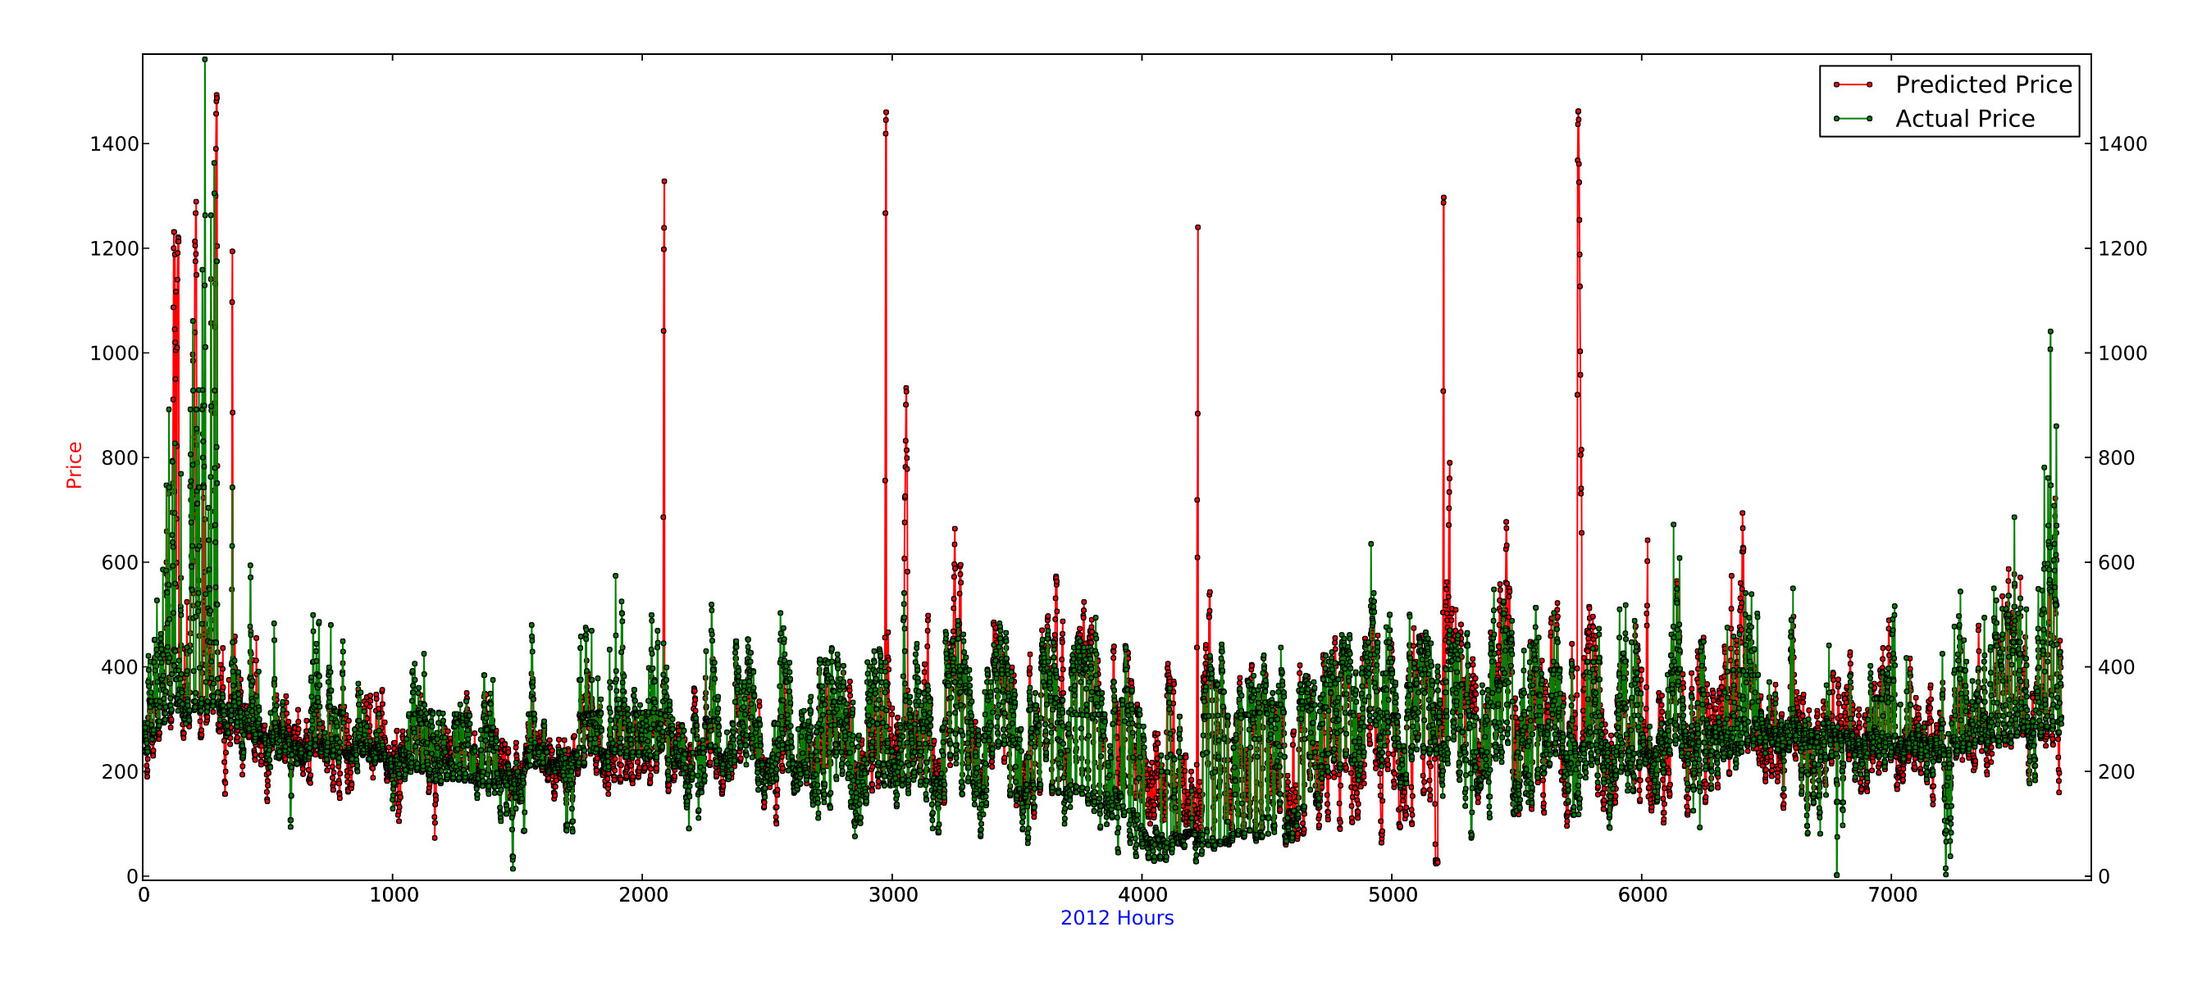
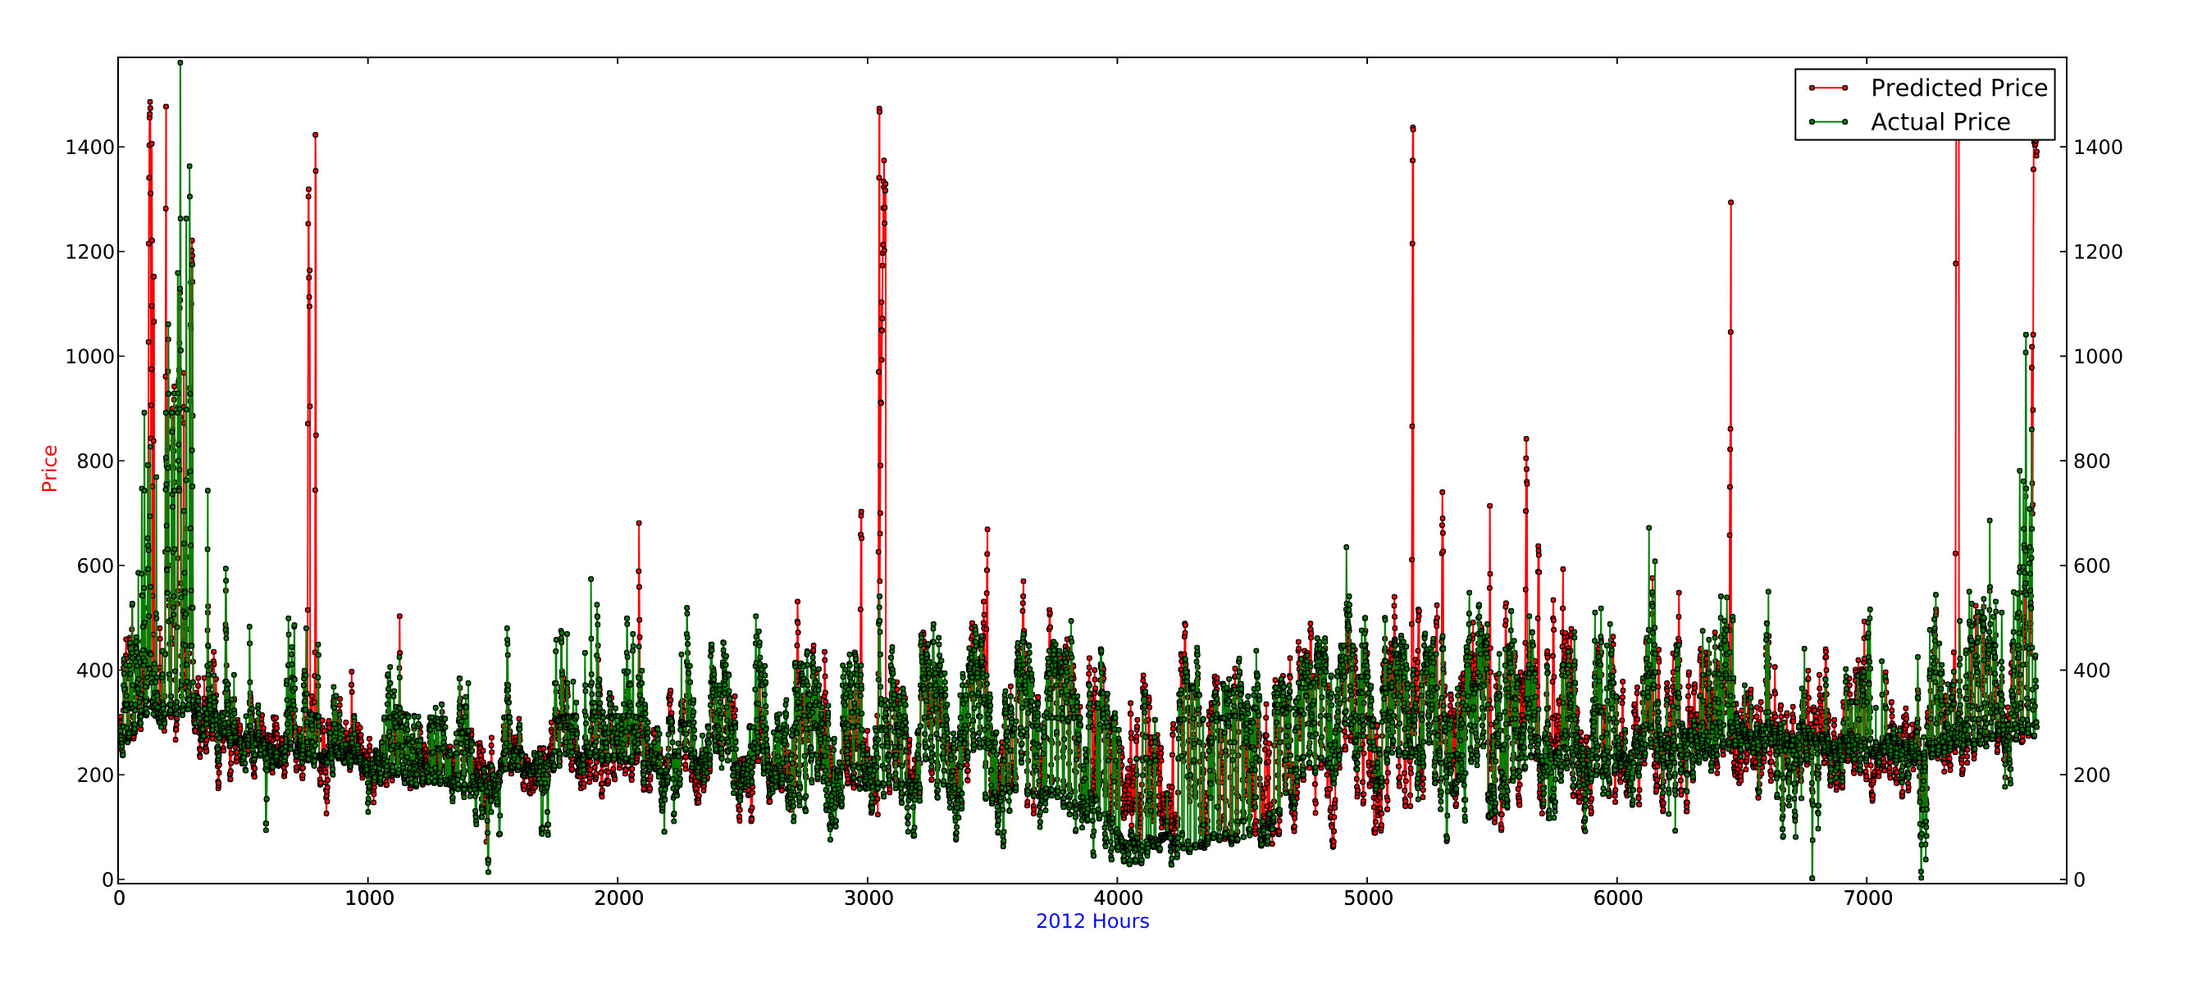
Experiments

diff --git a/sections/DataCollection/pricePredictionExperiments.tex b/sections/DataCollection/pricePredictionExperiments.tex
@@ -1,4 +1,7 @@
 \subsection{Experimental results}
+This section contains experimental results to find the best possible price predicting solution. The results are divided into 5 experiments. The first experiment finds the best combination of input parameters for the network. These input paramters count meteorological, social and seasonal factors we indentified in section~\ref{sec:Price}. The next experiment indentifies the need for trimming and reasons why it is needed in this particular dataset. The third experiment tests different statistical strategies to incorporate historical prices as a part of the dataset. This includes historical prices, curve behaviour analysis, skewness analysis and historical EWMA(Exponentially-Weighted Moving Average). The fourth experiment takes care of the Artificial Neural Network parameters. This includes black-box optimization like pruning of the network and optimization of epochs.
+
+\subsubsection{Experiment 1: Inputs}
 
 \begin{table}[H]
 \centering  % used for centering table
@@ -7,98 +10,150 @@
 	Price & Consumption & Wind speed & Temperature & Time of day & Weekdays & Months & Seasons & Matrix & MAE & Rank\\ [0.5ex] % inserts table 
 	%heading
 	\hline                  % inserts single horizontal line
-
- x & x & x & x & x & & & x & x &57.12 & \#1 \\
- x & x & x & & x & & x & & x &60.14 & \#2 \\
- x & x & x & x & x & & & & x &65.95 & \#3 \\
- x & x & x & x & x & & x & & x &66.55 & \#4 \\
- x & x & x & x & x & & & & &67.88 & \#5 \\
- x & x & x & & x & & & x & &68.21 & \#6 \\
- x & x & x & & x & & & & x &68.34 & \#7 \\
- x & x & x & & x & & & x & x &68.35 & \#8 \\
- x & x & x & x & x & & x & & &68.43 & \#9 \\
- x & x & x & & x & & & & &69.09 & \#10 \\
- x & x & x & x & & & & & &69.14 & \#11 \\
- x & x & x & & x & & x & & &69.34 & \#12 \\
- x & x & x & x & x & & & x & x &69.46 & \#13 \\
- x & x & x & x & & & & & x &69.5 & \#14 \\
- x & x & x & x & x & & & & &69.62 & \#15 \\
- x & x & x & x & & & x & & &69.7 & \#16 \\
- x & x & x & & x & & & x & &69.75 & \#17 \\
- x & x & x & x & x & & x & & &69.82 & \#18 \\
- x & x & x & & & & & & x &69.9 & \#19 \\
- x & x & x & & x & & x & & &70.58 & \#20 \\
- x & x & x & x & x & & & x & &70.75 & \#21 \\
- x & x & x & x & & & & & &71.31 & \#22 \\
- x & x & & x & x & & & & x &71.39 & \#23 \\
- x & x & x & x & & & & & x &71.58 & \#24 \\
- x & x & x & & x & & x & & x &71.81 & \#25 \\
- x & x & x & & x & & & x & x &71.89 & \#26 \\
- x & x & x & x & x & & & & x &73.7 & \#27 \\
- x & x & x & x & & & x & & x &74.19 & \#28 \\
- x & x & x & x & & & & x & x &75.31 & \#29 \\
- x & x & x & & & & & x & x &75.52 & \#30 \\
- x & x & x & & & & & & &75.63 & \#31 \\
- x & x & x & & x & & & & x &75.77 & \#32 \\
- x & x & x & x & & & x & & x &76.18 & \#33 \\
- x & x & x & & & & & & &76.32 & \#34 \\
- x & x & x & x & x & & x & & x &77.7 & \#35 \\
- x & x & & x & x & & & x & x &78.57 & \#36 \\
- x & x & x & x & x & & & x & &78.69 & \#37 \\
- x & x & & x & x & & & & &79.01 & \#38 \\
- x & x & & & x & & x & & x &79.71 & \#39 \\
- x & x & x & x & & & x & & &79.89 & \#40 \\
- x & x & x & & & & & x & x &80.2 & \#41 \\
- x & x & & & & & & & x &81.28 & \#42 \\
- x & x & x & x & & & & x & &81.34 & \#43 \\
- x & x & & & x & & & x & x &81.58 & \#44 \\
- x & x & x & x & & & & x & x &82.03 & \#45 \\
- x & x & & x & x & & & & &82.29 & \#46 \\
- x & x & x & & & & & & x &82.32 & \#47 \\
- x & x & & x & & & & & x &82.72 & \#48 \\
- x & x & & & x & & & & &83.35 & \#49 \\
- x & x & & x & x & & x & & x &84.5 & \#50 \\
- x & x & & & x & & & & x &85.15 & \#51 \\
- x & x & & x & x & & & x & x &85.51 & \#52 \\
- x & x & x & & & & x & & &85.55 & \#53 \\
- x & x & x & & & & & x & &85.57 & \#54 \\
- x & x & x & & & & & x & &85.66 & \#55 \\
- x & x & x & & & & x & & &85.99 & \#56 \\
- x & x & & x & & & & & &86.33 & \#57 \\
- x & x & & & x & & & x & x &87.0 & \#58 \\
- x & x & & x & & & & & &87.94 & \#59 \\
- x & x & & & & & & & &89.03 & \#60 \\
- x & x & & & x & & x & & &90.73 & \#61 \\
- x & x & & x & x & & & & x &91.06 & \#62 \\
- x & x & & & x & & & & x &91.23 & \#63 \\
- x & x & & & & & & x & x &91.67 & \#64 \\
- x & x & & x & x & & & x & &92.95 & \#65 \\
- x & x & x & & & & x & & x &93.63 & \#66 \\
- x & x & & & & & & x & &96.7 & \#67 \\
- x & x & & & & & & & x &96.78 & \#68 \\
- x & x & & & x & & & x & &97.09 & \#69 \\
- x & x & & x & x & & x & & &98.17 & \#70 \\
- x & x & & & x & & & x & &99.1 & \#71 \\
- x & x & & & & & x & & &99.38 & \#72 \\
- x & x & & & x & & x & & &99.78 & \#73 \\
- x & x & & x & & & & x & x &102.76 & \#74 \\
- x & x & & x & x & & x & & x &103.01 & \#75 \\
- x & x & & & & & x & & &103.56 & \#76 \\
- x & x & & & & & & x & &103.71 & \#77 \\
- x & x & & x & & & & x & &104.19 & \#78 \\
- x & x & & x & & & & & x &104.33 & \#79 \\
- x & x & & & x & & x & & x &104.93 & \#80 \\
- x & x & & x & x & & & x & &105.04 & \#81 \\
- x & x & x & & & & x & & x &105.7 & \#82 \\
- x & x & & & & & & x & x &107.85 & \#83 \\
- x & x & & x & x & & x & & &108.37 & \#84 \\
- x & x & & x & & & x & & &111.14 & \#85 \\
- x & x & & x & & & x & & x &111.65 & \#86 \\
- x & x & & x & & & x & & x &113.56 & \#87 \\
- x & x & & & & & x & & x &115.81 & \#88 \\
- x & x & & x & & & & x & x &115.83 & \#89 \\
- x & x & & x & & & x & & &117.17 & \#90 \\
- x & x & & & & & x & & x &117.34 & \#91 \\
+ x    & x    & x    & x    & x(M) & x(M) &      & x(M) & 57.12 & \#1 \\
+ x    & x    & x    & x    & x    & x    &      & x    & 58.09 & \#2 \\
+ x    & x    & x    & x    & x    &      & x    &      & 58.79 & \#3 \\
+ x    & x    & x    &      & x(M) & x(M) & x(M) &      & 60.14 & \#4 \\
+ x    & x    & x    & x    & x    & x    &      &      & 62.19 & \#5 \\
+ x    & x    & x    & x    & x    &      &      & x    & 62.26 & \#6 \\
+ x    & x    & x    & x    & x    & x    & x    &      & 62.84 & \#7 \\
+ x    & x    & x    & x    & x    & x    &      & x    & 63.94 & \#8 \\
+ x    & x    & x    & x    & x    & x    & x    &      & 64.19 & \#9 \\
+ x    & x    & x    &      & x    & x    & x    &      & 64.72 & \#10 \\
+ x    & x    & x    &      & x    & x    & x    &      & 65.07 & \#11 \\
+ x    & x    & x    & x    & x(M) & x(M) &      &      & 65.95 & \#12 \\
+ x    & x    & x    & x    & x(M) & x(M) & x(M) &      & 66.55 & \#13 \\
+ x    & x    & x    &      & x    &      &      & x    & 67.21 & \#14 \\
+ x    & x    & x    & x    & x    & x    &      &      & 67.88 & \#15 \\
+ x    & x    & x    &      & x    & x    &      & x    & 68.21 & \#16 \\
+ x    & x    & x    &      & x(M) & x(M) &      &      & 68.34 & \#17 \\
+ x    & x    & x    &      & x(M) &      &      & x(M) & 68.35 & \#18 \\
+ x    & x    & x    & x    & x    & x    & x    &      & 68.43 & \#19 \\
+ x    & x    & x    & x    & x    &      &      & x    & 68.45 & \#20 \\
+ x    & x    & x    &      & x    &      &      &      & 69.09 & \#21 \\
+ x    & x    & x    & x    &      & x    &      &      & 69.14 & \#22 \\
+ x    & x    & x    &      & x    &      & x    &      & 69.34 & \#23 \\
+ x    & x    & x    & x    & x    & x    & x    &      & 69.37 & \#24 \\
+ x    & x    & x    & x    & x(M) &      &      & x(M) & 69.46 & \#25 \\
+ x    & x    & x    & x    & x    & x    & x    &      & 69.47 & \#26 \\
+ x    & x    & x    & x    &      & x(M) &      &      & 69.50 & \#27 \\
+ x    & x    & x    & x    & x    &      &      &      & 69.62 & \#28 \\
+ x    & x    & x    & x    &      & x    & x    &      & 69.70 & \#29 \\
+ x    & x    & x    & x    & x    &      &      & x    & 69.71 & \#30 \\
+ x    & x    & x    &      & x    &      &      & x    & 69.75 & \#31 \\
+ x    & x    & x    & x    & x    &      & x    &      & 69.82 & \#32 \\
+ x    & x    & x    &      &      &      &      &      & 69.90 & \#33 \\
+ x    & x    & x    & x    &      & x    & x    &      & 70.29 & \#34 \\
+ x    & x    & x    &      & x    & x    & x    &      & 70.58 & \#35 \\
+ x    & x    & x    & x    & x    & x    &      & x    & 70.75 & \#36 \\
+ x    & x    & x    &      & x    & x    &      & x    & 70.96 & \#37 \\
+ x    & x    & x    & x    &      &      &      &      & 71.31 & \#38 \\
+ x    & x    &      & x    & x(M) & x(M) &      &      & 71.39 & \#39 \\
+ x    & x    & x    &      & x    & x    &      &      & 71.49 & \#40 \\
+ x    & x    & x    & x    &      &      &      &      & 71.58 & \#41 \\
+ x    & x    & x    & x    &      & x    &      & x    & 71.74 & \#42 \\
+ x    & x    & x    &      & x(M) &      & x(M) &      & 71.81 & \#43 \\
+ x    & x    & x    &      & x(M) & x(M) &      & x(M) & 71.89 & \#44 \\
+ x    & x    & x    & x    & x    & x    &      & x    & 71.92 & \#45 \\
+ x    & x    & x    &      & x    &      &      & x    & 72.70 & \#46 \\
+ x    & x    & x    &      & x    & x    &      & x    & 72.74 & \#47 \\
+ x    & x    & x    & x    & x(M) &      &      &      & 73.70 & \#48 \\
+ x    & x    & x    & x    &      & x    & x    &      & 73.80 & \#49 \\
+ x    & x    & x    & x    &      & x(M) & x(M) &      & 74.19 & \#50 \\
+ x    & x    & x    & x    & x    &      & x    &      & 74.29 & \#51 \\
+ x    & x    & x    &      & x    & x    &      &      & 74.56 & \#52 \\
+ x    & x    & x    &      & x    & x    & x    &      & 74.89 & \#53 \\
+ x    & x    & x    &      & x    & x    &      & x    & 75.25 & \#54 \\
+ x    & x    & x    & x    &      & x(M) &      & x(M) & 75.31 & \#55 \\
+ x    & x    & x    & x    & x    & x    & x    &      & 75.40 & \#56 \\
+ x    & x    & x    & x    & x    & x    &      &      & 75.45 & \#57 \\
+ x    & x    & x    &      &      &      &      & x(M) & 75.52 & \#58 \\
+ x    & x    & x    &      &      & x    &      &      & 75.63 & \#59 \\
+ x    & x    & x    &      & x(M) &      &      &      & 75.77 & \#60 \\
+ x    & x    & x    & x    &      & x    &      & x    & 76.12 & \#61 \\
+ x    & x    & x    & x    &      &      & x(M) &      & 76.18 & \#62 \\
+ x    & x    & x    & x    & x    & x    &      & x    & 76.19 & \#63 \\
+ x    & x    & x    &      &      &      &      &      & 76.32 & \#64 \\
+ x    & x    & x    &      & x    &      & x    &      & 76.39 & \#65 \\
+ x    & x    & x    & x    & x(M) &      & x(M) &      & 77.70 & \#66 \\
+ x    & x    & x    &      & x    & x    & x    &      & 77.72 & \#67 \\
+ x    & x    & x    & x    & x    &      & x    &      & 78.05 & \#68 \\
+ x    & x    & x    & x    &      & x    &      & x    & 78.49 & \#69 \\
+ x    & x    &      & x    & x(M) & x(M) &      & x(M) & 78.57 & \#70 \\
+ x    & x    & x    & x    & x    &      &      & x    & 78.69 & \#71 \\
+ x    & x    & x    &      & x    & x    &      & x    & 78.74 & \#72 \\
+ x    & x    & x    &      & x    & x    &      &      & 78.88 & \#73 \\
+ x    & x    &      & x    & x    & x    &      &      & 79.01 & \#74 \\
+ x    & x    &      &      & x(M) & x(M) & x(M) &      & 79.71 & \#75 \\
+ x    & x    & x    & x    &      &      & x    &      & 79.89 & \#76 \\
+ x    & x    & x    &      &      & x(M) &      & x(M) & 80.20 & \#77 \\
+ x    & x    & x    & x    & x    & x    &      & x    & 81.11 & \#78 \\
+ x    & x    &      &      &      &      &      &      & 81.28 & \#79 \\
+ x    & x    & x    & x    &      & x    &      & x    & 81.34 & \#80 \\
+ x    & x    &      &      & x(M) & x(M) &      & x(M) & 81.58 & \#81 \\
+ x    & x    & x    & x    &      &      &      & x(M) & 82.03 & \#82 \\
+ x    & x    & x    &      & x    & x    & x    &      & 82.04 & \#83 \\
+ x    & x    &      & x    & x    &      &      &      & 82.29 & \#84 \\
+ x    & x    & x    &      &      & x(M) &      &      & 82.32 & \#85 \\
+ x    & x    &      & x    &      &      &      &      & 82.72 & \#86 \\
+ x    & x    &      &      & x    &      &      &      & 83.35 & \#87 \\
+ x    & x    & x    &      & x    &      & x    &      & 83.82 & \#88 \\
+ x    & x    & x    &      & x    & x    &      & x    & 84.08 & \#89 \\
+ x    & x    &      & x    & x(M) & x(M) & x(M) &      & 84.50 & \#90 \\
+ x    & x    &      &      & x(M) & x(M) &      &      & 85.15 & \#91 \\
+ x    & x    &      & x    & x(M) &      &      & x(M) & 85.51 & \#92 \\
+ x    & x    & x    &      &      &      & x    &      & 85.55 & \#93 \\
+ x    & x    & x    &      &      & x    &      & x    & 85.57 & \#94 \\
+ x    & x    & x    &      &      &      &      & x    & 85.66 & \#95 \\
+ x    & x    & x    &      & x    &      & x    &      & 85.77 & \#96 \\
+ x    & x    & x    &      &      & x    & x    &      & 85.99 & \#97 \\
+ x    & x    &      &      & x    & x    &      &      & 86.00 & \#98 \\
+ x    & x    & x    &      & x    &      &      & x    & 86.13 & \#99 \\
+ x    & x    &      & x    &      & x    &      &      & 86.33 & \#100 \\
+ x    & x    &      &      & x(M) &      &      & x(M) & 87.00 & \#101 \\
+ x    & x    & x    &      &      & x    &      & x    & 87.63 & \#102 \\
+ x    & x    & x    & x    &      & x    & x    &      & 87.87 & \#103 \\
+ x    & x    &      &      &      & x    &      &      & 87.89 & \#104 \\
+ x    & x    &      & x    &      &      &      &      & 87.94 & \#105 \\
+ x    & x    &      &      &      &      &      &      & 89.03 & \#106 \\
+ x    & x    & x    &      &      & x    & x    &      & 89.14 & \#107 \\
+ x    & x    & x    & x    &      &      &      & x    & 89.55 & \#108 \\
+ x    & x    &      &      & x    & x    & x    &      & 90.73 & \#109 \\
+ x    & x    &      & x    & x(M) &      &      &      & 91.06 & \#110 \\
+ x    & x    &      &      & x(M) &      &      &      & 91.23 & \#111 \\
+ x    & x    &      &      &      &      &      & x(M) & 91.67 & \#112 \\
+ x    & x    & x    &      &      & x    &      & x    & 91.91 & \#113 \\
+ x    & x    & x    &      &      & x    & x    &      & 92.65 & \#114 \\
+ x    & x    &      & x    & x    & x    &      & x    & 92.95 & \#115 \\
+ x    & x    & x    &      &      &      & x(M) &      & 93.63 & \#116 \\
+ x    & x    & x    &      &      & x    & x    &      & 94.58 & \#117 \\
+ x    & x    &      &      &      &      &      & x    & 96.70 & \#118 \\
+ x    & x    &      &      &      & x(M) &      &      & 96.78 & \#119 \\
+ x    & x    &      &      & x    &      &      & x    & 97.09 & \#120 \\
+ x    & x    &      & x    & x    & x    & x    &      & 98.17 & \#121 \\
+ x    & x    &      &      & x    & x    &      & x    & 99.10 & \#122 \\
+ x    & x    &      &      &      &      & x    &      & 99.38 & \#123 \\
+ x    & x    &      &      & x    &      & x    &      & 99.78 & \#124 \\
+ x    & x    & x    &      &      & x    &      & x    & 100.63 & \#125 \\
+ x    & x    &      & x    &      &      &      & x(M) & 102.76 & \#126 \\
+ x    & x    &      & x    & x(M) &      & x(M) &      & 103.01 & \#127 \\
+ x    & x    &      &      &      & x    & x    &      & 103.56 & \#128 \\
+ x    & x    &      &      &      & x    &      & x    & 103.71 & \#129 \\
+ x    & x    &      & x    &      & x    &      & x    & 104.19 & \#130 \\
+ x    & x    &      & x    &      & x(M) &      &      & 104.33 & \#131 \\
+ x    & x    &      &      & x(M) &      & x(M) &      & 104.93 & \#132 \\
+ x    & x    &      & x    & x    &      &      & x    & 105.04 & \#133 \\
+ x    & x    & x    &      &      & x(M) & x(M) &      & 105.70 & \#134 \\
+ x    & x    &      &      &      & x(M) &      & x(M) & 107.85 & \#135 \\
+ x    & x    &      & x    & x    &      & x    &      & 108.37 & \#136 \\
+ x    & x    &      & x    &      &      & x    &      & 111.14 & \#137 \\
+ x    & x    &      & x    &      &      & x(M) &      & 111.65 & \#138 \\
+ x    & x    &      & x    &      & x(M) & x(M) &      & 113.56 & \#139 \\
+ x    & x    &      & x    &      &      &      & x    & 115.29 & \#140 \\
+ x    & x    &      &      &      &      & x(M) &      & 115.81 & \#141 \\
+ x    & x    &      & x    &      & x(M) &      & x(M) & 115.83 & \#142 \\
+ x    & x    &      & x    &      & x    & x    &      & 117.17 & \#143 \\
+ x    & x    &      &      &      & x(M) & x(M) &      & 117.34 & \#144 \\
 	\hline %inserts single line
 	\end{tabular}
 }
@@ -106,6 +161,67 @@
 \label{table:similarHoursLimits} % is used to refer this table in the text
 \end{table}
 
+\begin{table}[H]
+\centering  % used for centering table
+\resizebox{\textwidth}{!}{
+	\begin{tabular}{c c c c c c c c c c c} % centered columns (7 columns)
+	Price & Consumption & Wind speed & Temperature & Time of day & Weekdays & Months & Seasons & MAE & Rank\\ [0.5ex] % inserts table 
+	\hline                  % inserts single horizontal line
+	x & x & x & x & x    & x(M) & x(M) &      & 61.95 & \#1 \\ %newPredictions/TEN__MIXEDPrice_Consump_windSpeed_temperatureRow_timeOfDay_weekdaysMATRIX_monthOfYearMATRIX
+	x & x & x & x & x(M) & x    &      & x(M) & 62.76 & \#2 \\ %newPredictions/TEN__MIXEDPrice_Consump_windSpeed_temperatureRow_timeOfDayMATRIX_weekdays",%
+	x & x & x & x & x(M) & x(M) &      & x(M) & 62.87 & \#3 \\ %newPredictions/TEN__MIXEDPrice_Consump_windSpeed_temperatureRow_timeOfDayMATRIX_weekdays_monthOfYearMATRIX",
+	x & x & x &   & x(M) & x    & x(M) &      & 62.99 & \#4 \\ %newPredictions/TEN__MIXEDPrice_Consump_windSpeed_timeOfDayMATRIX_weekdays_monthOfYearMATRIX",
+	x & x & x & x & x(M) & x    & x(M) &      & 64.24 & \#5 \\ %newPredictions/TEN__MATRIX_Price_Consump_windSpeed_temperatureRow_timeOfDay_weekdays_seasonOfYear",
+	x & x & x & x & x(M) & x    &      &      & 65.18 & \#6 \\ %newPredictions/TEN__MIXEDPrice_Consump_windSpeed_temperatureRow_timeOfDayMATRIX_weekdays_seasonOfYearMATRIX",
+	x & x & x & x & x(M) &      & x(M) &      & 65.53 & \#7 \\ %newPredictions/TEN__MIXEDPrice_Consump_windSpeed_temperatureRow_timeOfDayMATRIX_monthOfYearMATRIX",
+	x & x & x & x & x    & x    &      & x(M) & 65.80 & \#8 \\ %newPredictions/TEN__MIXEDPrice_Consump_windSpeed_temperatureRow_timeOfDayMATRIX_seasonOfYearMATRIX",
+	x & x & x & x & x(M) &      &      & x(M) & 67.21 & \#9 \\ %newPredictions/TEN__MIXEDPrice_Consump_windSpeed_temperatureRow_timeOfDay_weekdays_seasonOfYearMATRIX",
+	x & x & x &   & x(M) & x(M) & x(M) &      & 70.25 & \#10 \\ %newPredictions/TEN__MATRIX_Price_Consump_windSpeed_timeOfDay_weekdays_monthOfYear"
+	\hline %inserts single line
+	\end{tabular}
+}
+\caption{Average MAE of ten runs per entry} % title of Table
+\label{table:similarHoursLimits} % is used to refer this table in the text
+\end{table}
+
+\begin{figure}[H]
+\centering
+\includegraphics[width=0.85\linewidth,natwidth=898,natheight=587]{billeder/PriceExperimentalAnalysis/NoTrimming.jpg}
+\caption{The \#1 forecast with no trimming of the dataset}
+\label{fig:NoTrim}
+\end{figure}
+
+\begin{figure}[H]
+\centering
+\includegraphics[width=0.85\linewidth,natwidth=898,natheight=587]{billeder/PriceExperimentalAnalysis/1PTrim.jpg}
+\caption{The \#1 forecast with 1\% trimming in both ends of the dataset}
+\label{fig:1PTrim}
+\end{figure}
+
+\begin{table}[H]
+\centering  % used for centering table
+\resizebox{0.6\textwidth}{!}{
+	\begin{tabular}{c c c c c c} % centered columns (7 columns)
+	1PTrim & 2PTrim & 3PTrim & 4PTrim & 5PTrim & Number\\ [0.5ex] % inserts table 
+	\hline                  % inserts single horizontal line
+	47.21 & 42.90 & 44.48 & 42.46 & 41.79 & \#1 \\
+	46.15 & 43.67 & 43.07 & 39.16 & 40.28 & \#2 \\
+	47.14 & 45.10 & 43.38 & 40.50 & 39.41 & \#3 \\
+	46.70 & 43.96 & 43.21 & 40.03 & 40.29 & \#4 \\
+	45.96 & 43.25 & 45.51 & 40.74 & 40.42 & \#5 \\
+	47.27 & 45.96 & 44.98 & 41.39 & 39.98 & \#6 \\
+	45.93 & 44.66 & 43.39 & 41.02 & 40.40 & \#7 \\
+	46.64 & 42.69 & 44.48 & 41.69 & 40.61 & \#8 \\
+	45.98 & 44.51 & 43.71 & 40.74 & 41.08 & \#9 \\
+	45.60 & 46.07 & 45.81 & 42.52 & 41.32 & \#10 \\
+	\hline %inserts single line
+	\end{tabular}
+}
+\caption{Trims} % title of Table
+\label{table:similarHoursLimits} % is used to refer this table in the text
+\end{table}
+
+363 entries gets removed per percent.
 
 \begin{table}[H]
 \centering  % used for centering table

diff --git a/sections/DataCollection/electricityPricePrediction.tex b/sections/DataCollection/electricityPricePrediction.tex
@@ -18,7 +18,7 @@ Energy price prediction is a cumbersome task to handle because of the highly vol
 %\label{table:pearsonCoeficientPrice} % is used to refer this table in the text
 %\end{table}
 
-\subsection{Price}
+\subsection{Price}\label{sec:Price}
 We present some of the influences on the price in this section and argue why these parameters have an impact on the price. We also account for the time perspective of the price and show the non-linear nature of energy prices. Since we just talked about demand and the influence on price we are focusing on the other impacting factors in the prediction of energy prices \todo{demand is not above?}. To accompany the graphs we also calculated the Pearson's correlations (section ~\ref{sec:Pearsons}) which can be seen in table ~\ref{table:pearsonsPriceVariables}.
 
 Pearson's correlations:
